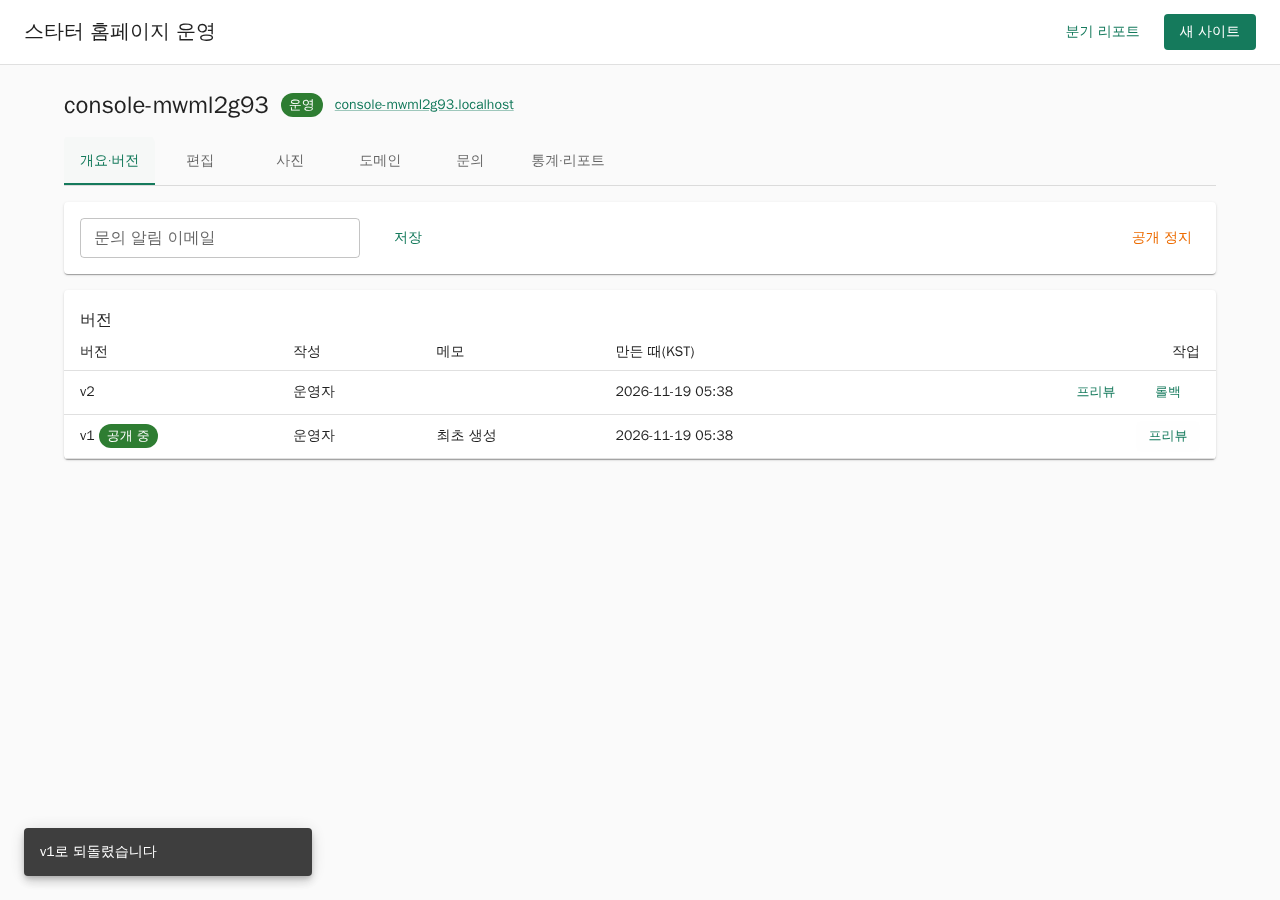
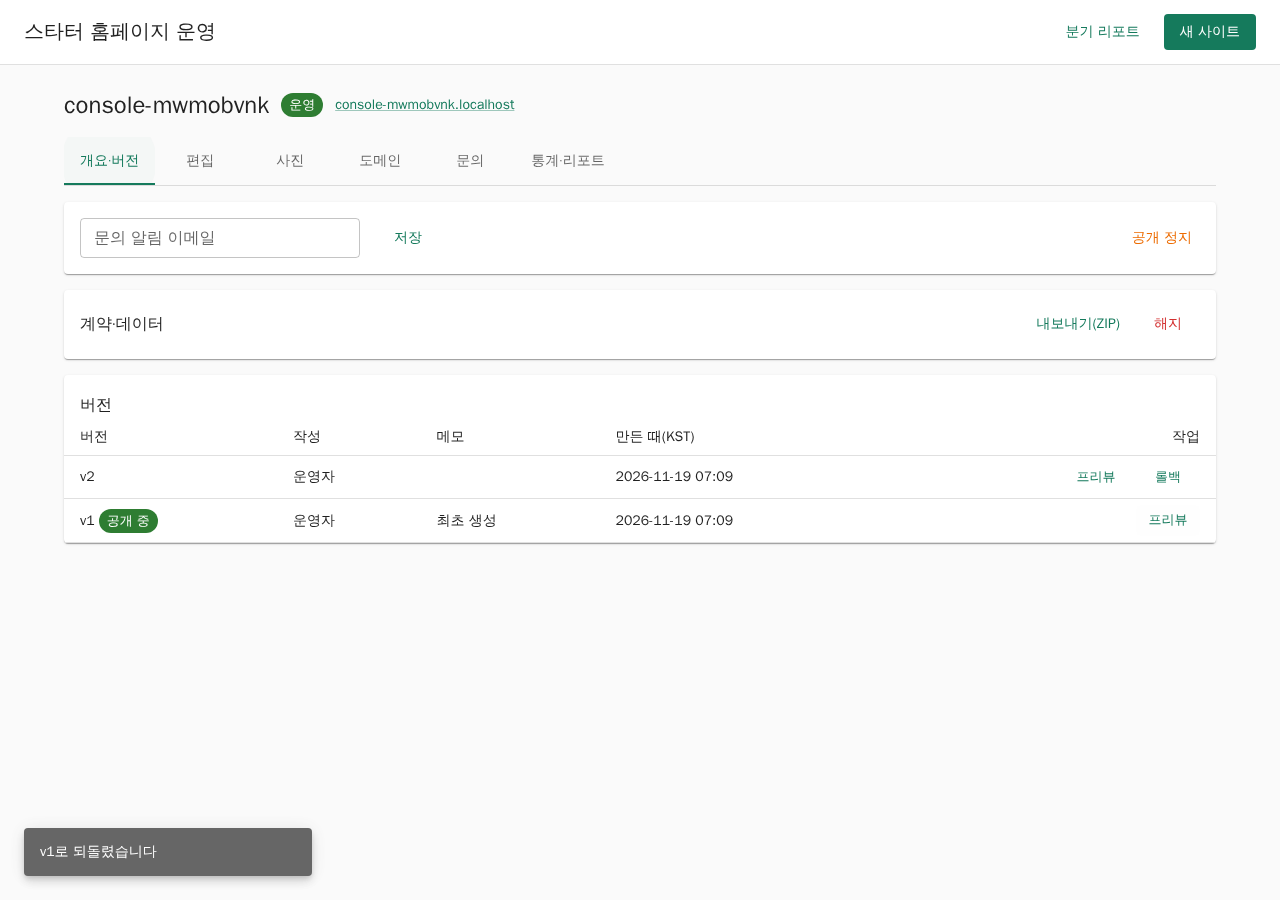
docs: M3 local result and PRD/README updates
- docs/m3-operations.md: blog posts, quarterly reports, full republish, cancellation and
  export, AI homepage hand-off; 259/259 Docker checks on a fresh stack; what remains
- PRD: M3 status and behavior of each operation; README: operator commands

Claude-Session: https://claude.ai/code/session_01Uc2o5SCu3UyyCMcagZ7ypq

diff --git a/docs/prd.md b/docs/prd.md
@@ -81,7 +81,7 @@ policy: https://app.notion.com/p/41cecd5a3ac28107820effaeb6cb4fc8
 - 템플릿 버전마다 한 번: CSS와 클라이언트 JS 번들(슬라이더·FAQ·문의 폼 등 인터랙션)을 빌드해 R2 공용 경로에 둔다.
 - 게시마다: `@dani-builder/blocks`로 `renderToString`해 HTML 한 장을 만든다. 빌드 서버 없이 Worker에서 실행하는 것이 목표.
 - 출력에 포함: 구조화 데이터(업체·영업시간·서비스·지역), 메타·OG, 사이트맵, robots, 개인정보처리방침 페이지.
-- 템플릿 업데이트 시 전체 사이트를 재게시하는 운영 명령을 둔다.
+- 템플릿 업데이트 시 전체 사이트를 재게시하는 운영 명령을 둔다(`scripts/republish-all.mjs`). 새 렌더를 공개 화면과 픽셀 비교해 같을 때만 적용하고, 달라진 사이트는 차이 이미지와 함께 보류한다.
 
 ### 4-4. 라우팅·도메인
 
@@ -108,7 +108,7 @@ policy: https://app.notion.com/p/41cecd5a3ac28107820effaeb6cb4fc8
 
 ### 4-7. 블로그 최신 글
 
-- 네이버 블로그 RSS를 Worker cron이 수집해 KV에 캐시하고, 페이지는 런타임에 읽어 표시한다. 글이 올라와도 재게시하지 않는다.
+- 네이버 블로그 RSS를 Worker cron이 3시간마다 수집해 KV에 캐시하고, 라우터가 요청 때 홈 페이지에 최신 글 3개를 채운다. 글이 올라와도 재게시하지 않는다.
 - 네이버 이미지: 외부 도메인 Referer가 붙으면 403, Referer가 없으면 200이다(2026-11-19 실측). `<img referrerpolicy="no-referrer">`로 표시하고 프록시는 두지 않는다.
 - 인스타 최신 게시물: 1차 범위 제외. Graph API는 비즈니스 계정·페이스북 페이지 연결·고객별 토큰 갱신이 필요하다.
 
@@ -132,8 +132,8 @@ policy: https://app.notion.com/p/41cecd5a3ac28107820effaeb6cb4fc8
 ### 4-10. 운영·AI 도구
 
 - 플랫폼 API를 MCP 도구로도 노출: `site_create`, `site_get`, `site_update_draft`, `site_validate`, `site_preview_url`, `site_publish`, `site_rollback`, `asset_upload`, `template_list`, `template_get`(작성 지침 포함).
-- 해지: 공개 중단(라우터에서 차단), 데이터·정적 파일은 보관 후 인출 가능.
-- AI 홈페이지 전환: 사이트 설정(TemplateSeed)을 Strapi로 가져오는 스크립트. `create-daniworks-app` importer를 고객 seed를 받도록 확장하는 방향.
+- 해지: 공개 중단(410), 커스텀 도메인 즉시 삭제(과금 중단), 데이터·정적 파일은 보관 기간(기본 90일) 동안 보관하고 zip으로 인출 가능. 완전 삭제는 보관 기간 뒤 운영자가 slug를 입력해야 한다.
+- AI 홈페이지 전환: `GET /sites/:id/template-seed`와 `scripts/handoff-to-strapi.mjs`로 create-daniworks-app 프로젝트의 `template-data`를 사이트 내용으로 바꾼 뒤 기존 `template:import`를 쓴다. importer 수정은 필요 없다.
 
 ## 5. 아키텍처
 
@@ -224,7 +224,7 @@ packages/
 | M0 렌더 PoC (완료, [결과](m0-render-poc.md)) | `packages/renderer`: 샘플 설정 → HTML(Worker 실행) | 샘플 사이트가 Worker 렌더 결과로 브라우저에서 정상 표시 |
 | M1 게시 PoC (완료, [로컬](m1-publish-poc.md)·[스테이징](staging-deploy.md)) | `apps/api` 사이트·버전 CRUD, 게시·롤백, `apps/router` 서브도메인 서빙 | `<slug>.dsites.kr`에서 게시·롤백 동작 |
 | M2 첫 고객 (로컬 완료, [결과](m2-first-customer.md)) | 업종 템플릿 1번(레슨·교육·출장), 문의, 측정, MCP 도구, 사진, 커스텀 도메인(내부 등록), 운영자 콘솔 v1 | 실제 리드 1곳 오픈 (스테이징 설정 후) |
-| M3 운영 | 나머지 업종 템플릿, RSS, 분기 리포트 집계, 전체 재게시, 해지·인출 | 10곳 운영 |
+| M3 운영 (로컬 완료, [결과](m3-operations.md). 업종 템플릿 2~4번은 데이터 대기) | 나머지 업종 템플릿, RSS, 분기 리포트 집계, 전체 재게시, 해지·인출 | 10곳 운영 |
 | M4 고객 콘솔(보류) | 도메인 셀프 연결, 문의, 리포트, 수정 요청, zip 다운로드 | 고객이 도움 없이 도메인 연결 |
 
 ## 10. 미결 사항
@@ -241,4 +241,5 @@ packages/
 - 2026-11-19: 라우터 KV `cacheTtl`을 30초로 낮추고, 호스트 키에 게시 포인터를 함께 둬 조회를 1회로 줄인다.
 - 2026-11-19: 콘솔은 운영자 전용으로 먼저 만들고 고객 콘솔은 보류한다.
 - 2026-11-19: 로컬 검증은 Docker(`docker-compose.yml`)에서 한다. 단계마다 `codex review`를 거친다.
+- 2026-11-19: M3 로컬 완료(업종 템플릿 2~4번 제외). 렌더 버전(RENDER_VERSION)으로 재게시 대상 판정, 완전 삭제는 수동·보관 기간 뒤.
 - 2026-11-19: M2 로컬 완료. Turnstile 프레임 방식, 사진 3MP 한도, 렌더 불변화(render_id), 운영자 콘솔은 Access + 서버 측 토큰 프록시.

diff --git a/docs/m3-operations.md b/docs/m3-operations.md
@@ -1,0 +1,47 @@
+---
+type: result
+status: current
+date: 2026-11-19
+milestone: M3
+---
+
+# M3 운영 결과 (로컬)
+
+결론: 10곳을 운영하는 데 필요한 기능 중 데이터 없이 만들 수 있는 것은 모두 만들었다. 블로그 최신 글, 분기 리포트, 전체 재게시, 해지·인출, AI 홈페이지 전환이다. M2를 포함한 Docker 검증 259건이 깨끗한 상태에서 통과했다. 업종 템플릿 2~4번은 운영 자가진단 리드의 업종 분포 데이터를 받아야 만들 수 있다.
+
+## 만든 것
+
+| 단계 | 내용 | 운영 방법 |
+| --- | --- | --- |
+| 3-1 블로그 최신 글 | cron이 3시간마다 네이버 RSS 수집 → KV. 라우터가 요청 때 홈에 카드 3개를 채움(재게시 불필요). 블로그 주소가 정체성이라 바뀐 뒤 옛 글이 섞이지 않음 | 설정 `business.blogUrl`. 즉시 수집: `POST /sites/:id/blog/refresh` |
+| 3-2 분기 리포트 | 사이트별 분기 합계·연락 전환·직전 분기 대비·월별, CSV. 전체 사이트 개요 | 콘솔 "분기 리포트", 사이트 "통계·리포트" 탭 |
+| 3-3 전체 재게시 | 렌더러·템플릿 변경 뒤 공개 버전을 새로 렌더(스테이지) → 공개 화면과 픽셀 비교(홈·개인정보처리방침 × 모바일·데스크톱) → 같을 때만 적용 | `node scripts/republish-all.mjs [--apply]` |
+| 3-4 해지·인출 | 해지(410, 도메인 즉시 삭제로 과금 중단, 쓰기 거부), 해지 취소, 보관 기간 뒤 slug 확인 완전 삭제, zip 인출(정적 사이트 + 사진 전부 + 데이터) | 콘솔 개요 탭 "계약·데이터" |
+| 3-6 AI 홈페이지 전환 | 사이트를 빌더 TemplateSeed로 내보내고, create-daniworks-app 프로젝트에 넣어 기존 `template:import`로 가져옴 | `node scripts/handoff-to-strapi.mjs --site= --into=` |
+
+## 결과
+
+| 검증 | 결과 |
+| --- | --- |
+| `verify-all.mjs` (M1~M3, 깨끗한 상태) | 259/259, 14개 스크립트 |
+| 단위 테스트 | api 76, renderer 34, schema 22, console 5 |
+| codex review | 단계마다 지적이 없어질 때까지(3-4는 11회). 기록: `evidence/m3-*/codex-review.md` |
+
+## 판단과 발견
+
+- **블로그 카드와 하이드레이션**: 정적 HTML의 빈 영역에 라우터가 HTMLRewriter로 카드를 넣는다. `dangerouslySetInnerHTML` 영역이라 React가 비교하지 않아 카드가 유지된다(브라우저 검증). 네이버 이미지 요청에 Referer가 없는 것도 확인했다.
+- **시각 비교 기준**: 같은 렌더끼리는 차이가 정확히 0%였다. 문구 한 줄 변경은 0.26%라 기준을 0.01%로 두었다. 크기가 바뀌면 항상 보류한다.
+- **렌더 버전**: 공용 자산 해시만으로는 서버 렌더러 변경을 못 잡는다. `RENDER_VERSION` = 자산 해시 + 렌더러 소스·빌더 패키지 버전.
+- **재게시 도구의 토큰**: 스테이지 화면 요청에만 관리자 토큰을 붙인다. 외부 이미지 요청에 토큰이 실렸는지 감시해 리포트에 남긴다.
+- **완전 삭제**: cron이 하지 않는다. 보관 기간(`RETENTION_DAYS`, 기본 90일)이 지나고 운영자가 slug를 입력해야 한다. 삭제 중 상태를 먼저 잡고, 사이트에 쓰는 모든 경로가 이 상태를 확인한다. 중간에 끊기면 같은 요청으로 이어서 진행한다.
+- **인출 zip**: 다른 서버의 도메인 루트에 올리면 그대로 열린다(브라우저 검증). 데이터는 페이지 단위로, 파일은 스트리밍으로 써서 메모리가 커지지 않는다.
+
+## 남은 것
+
+| 항목 | 필요한 것 |
+| --- | --- |
+| 업종 템플릿 2~4번 | 운영 자가진단 리드의 업종·사이트 URL 분포 |
+| 스테이징 확인 | M2 문서의 Cloudflare 설정 + 블로그 RSS 실수집, 재게시 명령을 실제 도메인으로 실행 |
+| 보관 기간 | 정책서 확정(현재 기본 90일) |
+| AI 홈페이지 전환 | 실제 Strapi 프로젝트에서 `template:import` 실행 확인 |
+| 고객 콘솔 | 범위·시점 결정(보류) |
